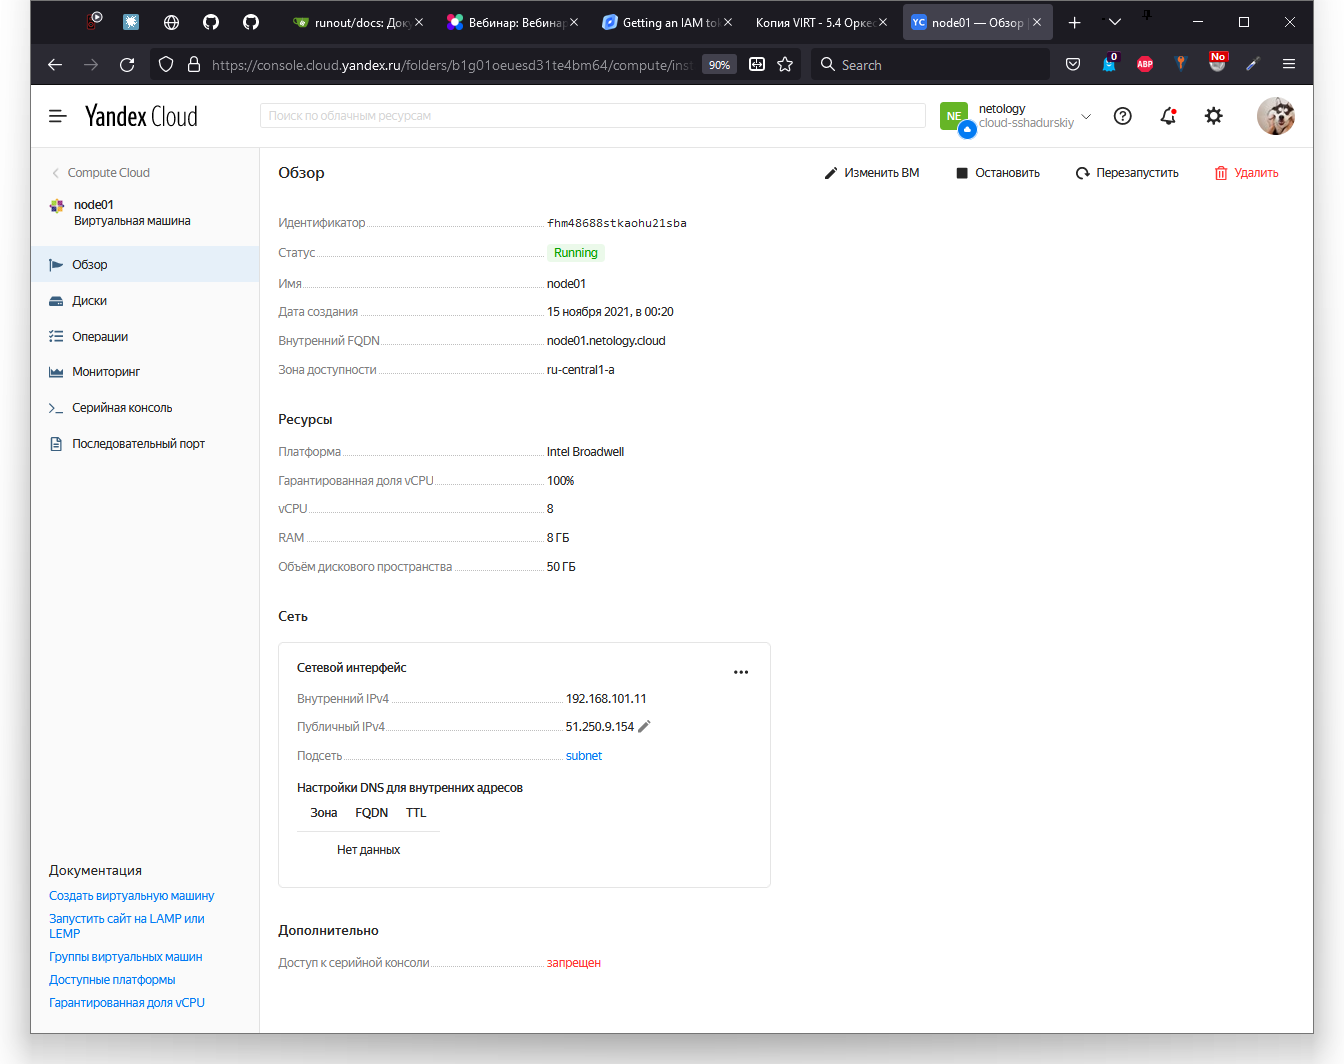
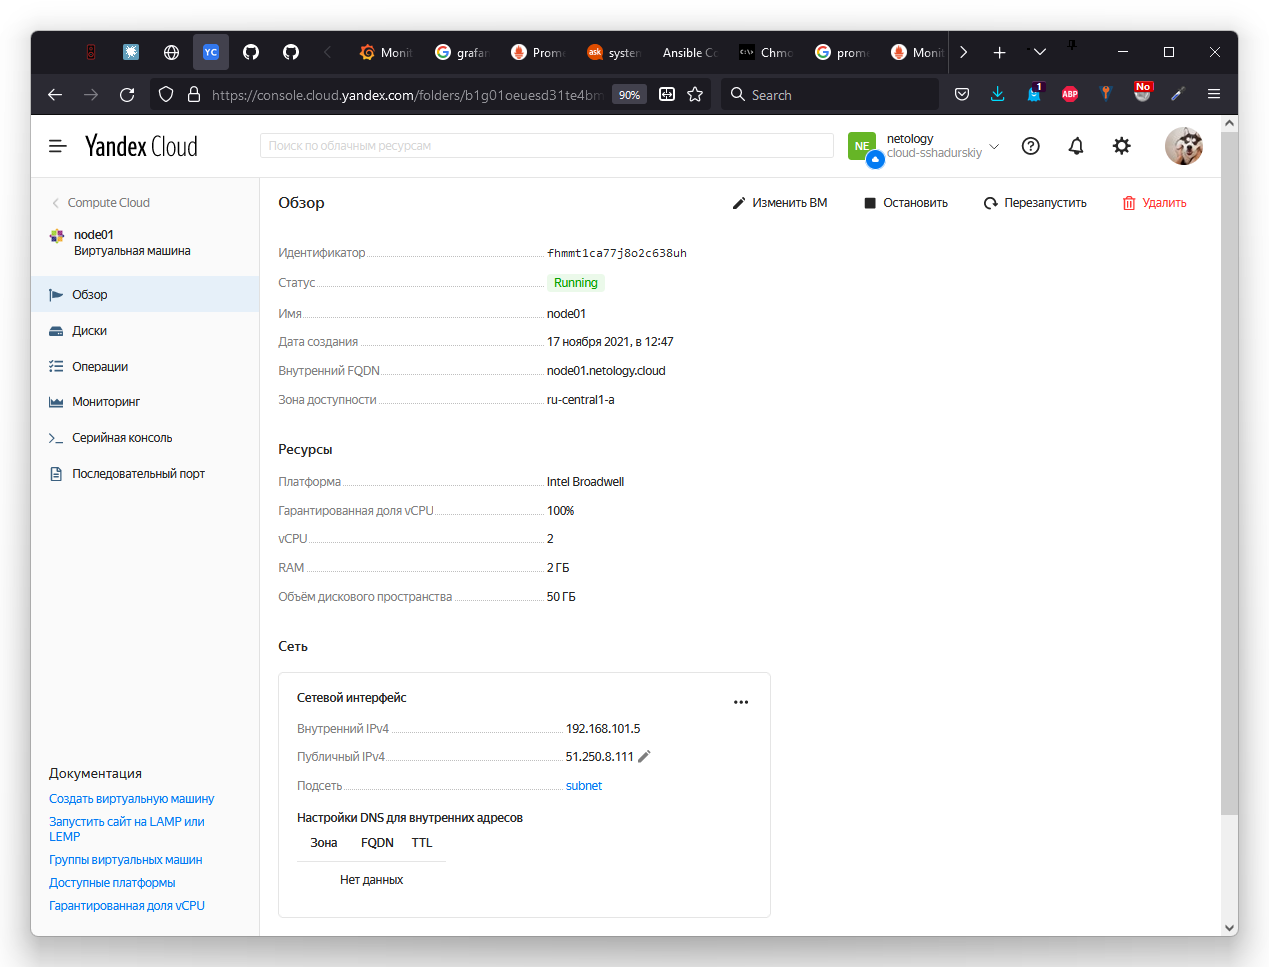
5.4, не совсем верно выполненное задание 4

diff --git a/README.md b/README.md
@@ -64,6 +64,17 @@ devops-netology
 
 </details>
 
+Я добавил второй источник данных в Grafana, тоже Prometheus, просто со второй ноды.
+
+![Скриншот с Grafana, в которую поступают данные с обеих нод](media/virt-54-4-grafana-node2.png)
+
+Источники данных.
+![Screen](media/virt-54-4-grafana-node2-data-sources.png)
+Настройки смежного графика с load_average 1 
+![Screen](media/virt-54-4-grafana-node2-graph-settings.png)
+Информация о второй ноде на Яндексе
+![Screen](media/virt-54-4-grafana-node2-yandex.png)
+
 # Прошлые ДЗ
 
 <details>
